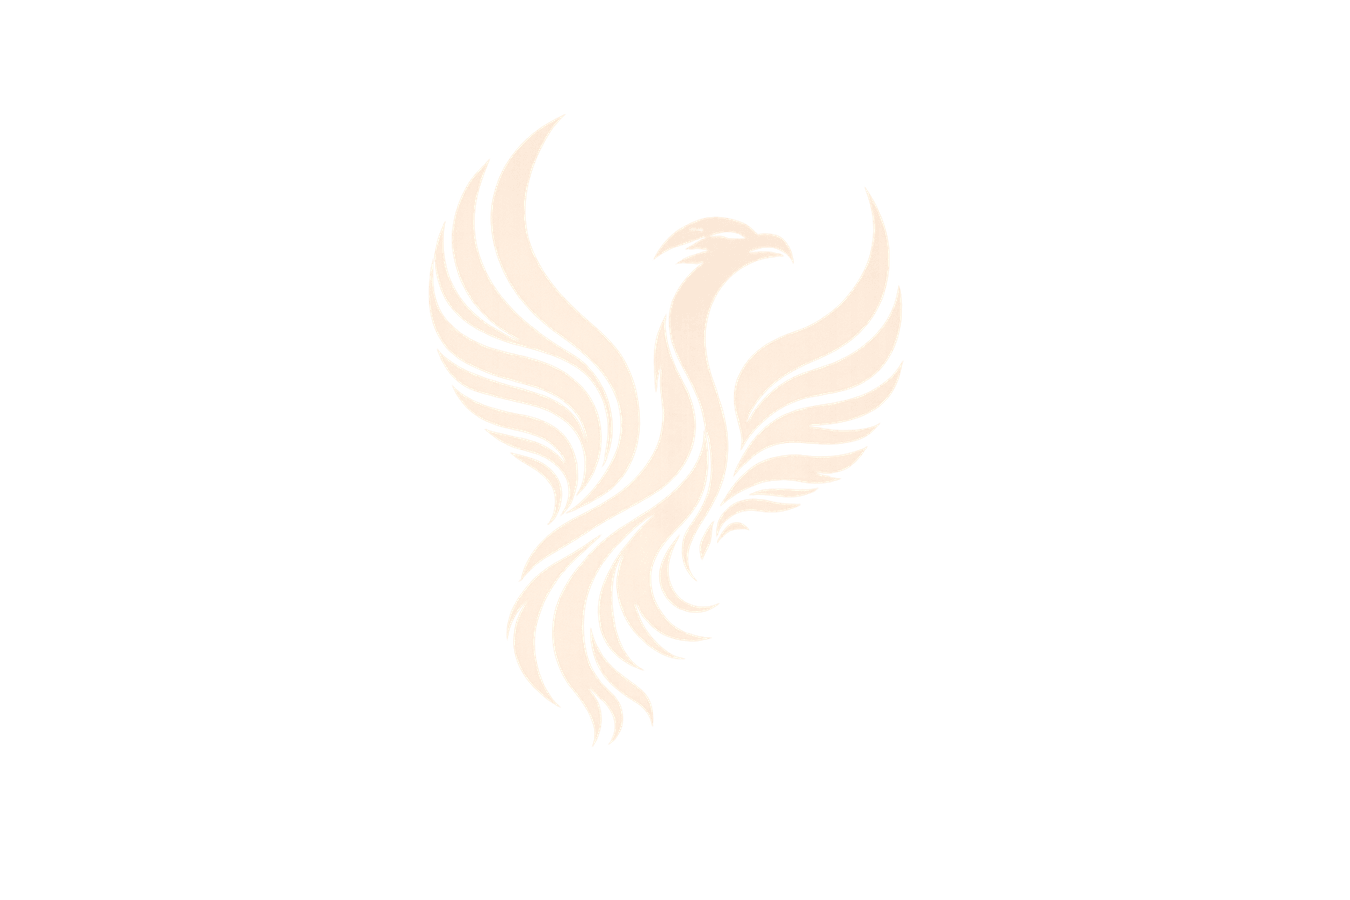
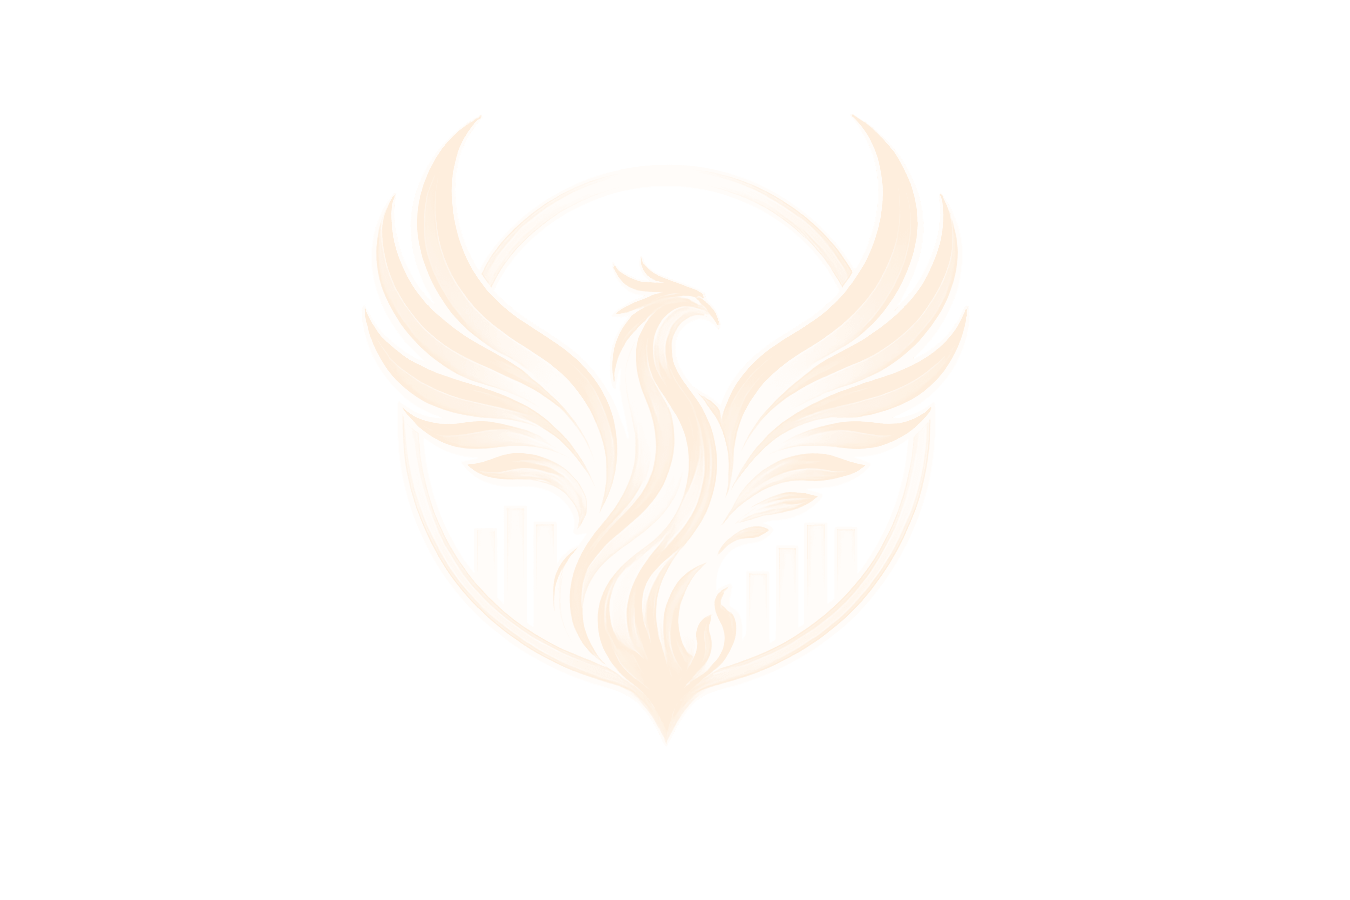
fix(brand): every Phoenix mark is the owner's ringed emblem (#3715)
* fix(brand): every Phoenix mark is the owner's ringed emblem

The owner named the ringed phoenix over rising bars as the original Phoenix logo on 2026-09-11 and asked for every Phoenix mark in the system to be audited and fixed. An audit of every tracked image, every base64 picture in code and every picture inside tracked Office files and PDFs, checked by eye, found five live surfaces on other drawings: the browser tab icon, the installed-app and iPhone home-screen icons, the desktop notification, the Excel exports' corner mark, and the public marketing guide. All now draw the ringed emblem, with the icon cache keys bumped so browsers refetch. Nine unused drawings that are not the logo are removed from public/. tests/phoenix-official-logo.test.ts compares each surface with the emblem by image hash and was proved to fail on every old drawing.

* fix(brand): identity banner watermark carries the ringed emblem

The employee portal identity banner is a design the owner locked, so this change is its own commit for his yes or no before merge. Same cream colour, canvas, position and height as the bird it replaces; the emblem's dark outlines are kept as engraved gaps so the bird still reads inside the ring. identity-card.tsx is not touched.

---------

Changed region(s): [[0.2489, 0.1244, 0.7156, 0.8089], [0.6222, 0.6222, 0.6533, 0.6844], [0.5911, 0.6844, 0.6222, 0.7156]]

diff --git a/src/lib/export/phoenix-pdf-assets.ts b/src/lib/export/phoenix-pdf-assets.ts
@@ -1,5 +1,6 @@
 // AUTO-GENERATED brand asset. Source: public/brand/phoenix-rail-mark.png (phoenix emblem on black).
 // Inlined as base64 so PDF export embeds the mark without runtime filesystem/static-asset reads
 // (reliable on Vercel serverless). Regenerate by re-encoding the source PNG if the brand mark changes.
+// Re-encoded 2026-09-11: it still held an older glow-bird drawing, not the owner's ringed emblem.
 export const PHOENIX_RAIL_MARK_PNG_BASE64 =
[2 lines of base64/hex data omitted]

diff --git a/tests/phoenix-official-logo.test.ts b/tests/phoenix-official-logo.test.ts
@@ -1,0 +1,204 @@
+import assert from "node:assert/strict";
+import { existsSync, readdirSync, readFileSync } from "node:fs";
+import path from "node:path";
+
+import sharp from "sharp";
+
+// ─────────────────────────────────────────────────────────────────────────────
+// THE OFFICIAL PHOENIX LOGO IS THE RINGED EMBLEM — the phoenix inside a ring, over rising bars.
+//
+// The owner, 2026-09-11, sending that mark: "This is the original contract logo of Phoenix. So fix
+// here and deep audit everywhere in the system and fix with the correct logo." The same night two
+// document attempts had carried other Phoenix drawings that sat in `public/brand/` beside the real
+// one — a bird with no ring, and a brand-sheet lockup reading PEOPLE • PERFORMANCE • INTELLIGENCE —
+// and the browser tab, the phone home-screen icon, the desktop notification and the Excel exports'
+// corner mark were all still wearing a glowing bird that is not the logo at all.
+//
+// WHY A PICTURE TEST, NOT A FILE-NAME TEST. Every wrong mark had a plausible name
+// (`phoenix-main-logo.png`, `phoenix-required-brand.png`), and the Excel mark was a base64 string no
+// name search can see. So each surface is compared with the official emblem by a 64-bit difference
+// hash. Measured when this was written: every correct surface sat 0–5 bits from the reference, and
+// every wrong drawing it replaced sat 17–30 bits away.
+//
+// WHAT IT PINS
+//   1. the reference emblem itself, by its own hash — so swapping the reference cannot make every
+//      other check agree with a wrong mark;
+//   2. a negative control — the Sato mark must read as DIFFERENT, or the comparator is blind and
+//      every pass below is vacuous;
+//   3. the browser and app icons, the marks the app shell draws, the email signatures, the camera
+//      watermark, the notification icon and the Excel exports' embedded mark;
+//   4. that the retired drawings are gone from `public/` and no code path points at them.
+//
+// A red here is a wrong logo reaching users. Fix the ASSET, never the hash: the reference hash moves
+// only when the owner changes the logo.
+// ─────────────────────────────────────────────────────────────────────────────
+
+const OFFICIAL_EMBLEM = "public/brand/identity-strip-emblem.png";
+
+/** Difference hash of the official emblem flattened on white and on black, measured 2026-09-11. */
+const OFFICIAL_HASH = { onBlack: "55cc69692f5b0f0e", onWhite: "b20e96c4e8d0c879" } as const;
+
+/** Slack for a resampler or libvips upgrade re-rounding the reference itself. */
+const REFERENCE_DRIFT_BITS = 4;
+
+/** At most this many bits apart is the same mark. Correct surfaces measured 0–5, wrong ones 17–30. */
+const SAME_MARK_BITS = 10;
+
+const WHITE = "#ffffff";
+const BLACK = "#000000";
+
+/** Drawings that are NOT the logo, removed 2026-09-11. None may come back, and nothing may point at one. */
+const RETIRED = [
+  "brand/phoenix-favicon-transparent.png",
+  "brand/phoenix-icon-transparent.png",
+  "brand/phoenix-logo-reference.png",
+  "brand/phoenix-main-logo.png",
+  "brand/phoenix-primary-icon.png",
+  "brand/phoenix-primary-logo.png",
+  "brand/phoenix-required-brand.png",
+  "brand/sfe-logo.png",
+  "assets/branding/phoenix-mindset-banner.png",
+] as const;
+
+async function differenceHash(input: string | Buffer, background: string): Promise<string> {
+  const flat = await sharp(input).flatten({ background }).png().toBuffer();
+  let framed = flat;
+  try {
+    // Trim the uniform border, so the padding a mark has inside its own canvas does not decide it.
+    framed = await sharp(flat).trim({ threshold: 24 }).png().toBuffer();
+  } catch {
+    framed = flat;
+  }
+  const grey = await sharp(framed).resize(9, 8, { fit: "fill" }).grayscale().raw().toBuffer();
+  let hex = "";
+  for (let y = 0; y < 8; y++) {
+    let byte = 0;
+    for (let x = 0; x < 8; x++) byte = (byte << 1) | (grey[y * 9 + x] > grey[y * 9 + x + 1] ? 1 : 0);
+    hex += byte.toString(16).padStart(2, "0");
+  }
+  return hex;
+}
+
+function hammingBits(a: string, b: string): number {
+  let bits = 0;
+  for (let i = 0; i < a.length; i += 2) {
+    let v = Number.parseInt(a.slice(i, i + 2), 16) ^ Number.parseInt(b.slice(i, i + 2), 16);
+    while (v) {
+      bits += v & 1;
+      v >>= 1;
+    }
+  }
+  return bits;
+}
+
+function icoEntries(file: string): { png: Buffer; size: number }[] {
+  const buf = readFileSync(file);
+  const entries: { png: Buffer; size: number }[] = [];
+  for (let i = 0; i < buf.readUInt16LE(4); i++) {
+    const at = 6 + i * 16;
+    const offset = buf.readUInt32LE(at + 12);
+    entries.push({ png: buf.subarray(offset, offset + buf.readUInt32LE(at + 8)), size: buf[at] || 256 });
+  }
+  return entries;
+}
+
+function textFilesUnder(dir: string): string[] {
+  if (!existsSync(dir)) return [];
+  const files: string[] = [];
+  for (const entry of readdirSync(dir, { withFileTypes: true })) {
+    const full = path.join(dir, entry.name);
+    if (entry.isDirectory()) {
+      if (entry.name === "node_modules" || entry.name.startsWith(".")) continue;
+      files.push(...textFilesUnder(full));
+    } else if (/\.(ts|tsx|js|mjs|cjs|jsx|json|html|css|sql|toml)$/.test(entry.name)) {
+      files.push(full);
+    }
+  }
+  return files;
+}
+
+export async function runPhoenixOfficialLogoTests() {
+  const referenceOnWhite = await differenceHash(OFFICIAL_EMBLEM, WHITE);
+  const referenceOnBlack = await differenceHash(OFFICIAL_EMBLEM, BLACK);
+  assert.ok(
+    hammingBits(referenceOnWhite, OFFICIAL_HASH.onWhite) <= REFERENCE_DRIFT_BITS
+      && hammingBits(referenceOnBlack, OFFICIAL_HASH.onBlack) <= REFERENCE_DRIFT_BITS,
+    `${OFFICIAL_EMBLEM} is no longer the emblem the owner named — every check below compares against it, so a swapped reference would pass a wrong logo everywhere`,
+  );
+
+  const satoBits = hammingBits(await differenceHash("public/brand/sato-pharma-logo-on-light.png", WHITE), referenceOnWhite);
+  assert.ok(
+    satoBits > SAME_MARK_BITS + 4,
+    `the comparator reads the Sato mark as the Phoenix emblem (${satoBits} bits apart) — it can no longer tell two marks apart, so every pass below would be vacuous`,
+  );
+
+  const sameMark = async (label: string, input: string | Buffer, background: string) => {
+    const reference = background === BLACK ? referenceOnBlack : referenceOnWhite;
+    const bits = hammingBits(await differenceHash(input, background), reference);
+    assert.ok(
+      bits <= SAME_MARK_BITS,
+      `${label} is not the ringed Phoenix emblem (${bits} bits from it, where the same mark is at most ${SAME_MARK_BITS}) — the owner's original logo is the phoenix inside a ring over rising bars`,
+    );
+  };
+
+  // The browser tab, the installed app and the iPhone home screen.
+  await sameMark("app/icon.png, the browser-tab and installed-app icon", "app/icon.png", WHITE);
+  await sameMark("app/apple-icon.png, the iPhone home-screen icon", "app/apple-icon.png", WHITE);
+  const favicon = icoEntries("app/favicon.ico");
+  assert.deepEqual(
+    favicon.map((entry) => entry.size).sort((a, b) => a - b),
+    [16, 32, 48, 64],
+    "favicon.ico carries exactly the 16/32/48/64 sizes app/layout.tsx declares for it",
+  );
+  for (const entry of favicon) {
+    // Sixteen pixels cannot hold the ring and the bars apart, so below 32 the hash measures noise
+    // (the correct 16 px entry reads 14 bits). That entry is held to its size above, not its picture.
+    if (entry.size >= 32) await sameMark(`app/favicon.ico at ${entry.size}px`, entry.png, WHITE);
+  }
+
+  // The marks the app shell draws — read from the brand config, so a repointed key is checked too.
+  const settings = readFileSync("src/config/system-settings.ts", "utf8");
+  const configured = new Map(
+    [...settings.matchAll(/\b(iconLogo|loginEmblem|adminRailMark|adminSidebarLockup):\s*"([^"]+)"/g)].map((m) => [m[1] ?? "", m[2] ?? ""] as const),
+  );
+  for (const key of ["iconLogo", "loginEmblem", "adminRailMark", "adminSidebarLockup"]) {
+    const src = configured.get(key);
+    assert.ok(src, `system-settings.ts no longer names ${key}, so this test can no longer see the mark the app shell draws`);
+    assert.ok(existsSync(`public${src}`), `${key} points at ${src}, which is not in public/ — the app shell would draw a broken image`);
+  }
+  await sameMark("the brand config's iconLogo", `public${configured.get("iconLogo")}`, WHITE);
+  await sameMark("the brand config's loginEmblem", `public${configured.get("loginEmblem")}`, WHITE);
+  await sameMark("the brand config's adminRailMark", `public${configured.get("adminRailMark")}`, BLACK);
+  // The lockup sets the wordmark beside the emblem, so the emblem is the lockup's left square.
+  const lockup = `public${configured.get("adminSidebarLockup")}`;
+  const lockupHeight = (await sharp(lockup).metadata()).height ?? 0;
+  const lockupEmblem = await sharp(lockup).extract({ height: lockupHeight, left: 0, top: 0, width: lockupHeight }).png().toBuffer();
+  await sameMark("the emblem in the brand config's adminSidebarLockup", lockupEmblem, BLACK);
+
+  // Everywhere the mark leaves the app.
+  await sameMark("the desktop notification icon", "public/brand/phoenix-notification-icon.png", WHITE);
+  assert.match(
+    readFileSync("src/lib/nav-badge-store.ts", "utf8"),
+    /icon:\s*"\/brand\/phoenix-notification-icon\.png"/,
+    "the Action Center desktop notification draws the notification icon — the favicon is 64px at most and blurs at notification size",
+  );
+  await sameMark("the HR email signature", "public/assets/branding/phoenix-hr-email-signature.png", WHITE);
+  await sameMark("the small HR email signature", "public/assets/branding/phoenix-hr-signature-small.png", WHITE);
+  await sameMark("the camera evidence watermark", "public/brand/phoenix-camera-watermark.png", WHITE);
+
+  const assets = readFileSync("src/lib/export/phoenix-pdf-assets.ts", "utf8");
+  const quote = assets.indexOf('"');
+  const exportMark = Buffer.from(assets.slice(quote + 1, assets.indexOf('"', quote + 1)), "base64");
+  await sameMark("the Excel exports' corner mark (PHOENIX_RAIL_MARK_PNG_BASE64)", exportMark, BLACK);
+
+  // The retired drawings stay retired.
+  for (const retired of RETIRED) {
+    assert.ok(!existsSync(`public/${retired}`), `public/${retired} is back — it is not the Phoenix logo, and it was removed so no session reaches for it again`);
+  }
+  const pointers: string[] = [];
+  for (const file of ["src", "app", "public", "lib", "scripts", "supabase"].flatMap(textFilesUnder)) {
+    const text = readFileSync(file, "utf8");
+    for (const retired of RETIRED) if (text.includes(retired)) pointers.push(`${file} -> ${retired}`);
+  }
+  assert.deepEqual(pointers, [], "a code path points at a retired Phoenix drawing, which would render a broken image or a wrong logo");
+}

diff --git a/tests/run-tests.ts b/tests/run-tests.ts
@@ -1581,6 +1581,7 @@ import { runLeaveRequestCodesTests } from "./leave-request-codes.test.ts";
 
 import { runManagerAreaRegionGuardTests } from "./manager-area-region-guard.test.ts";
 import { runDataBackupWorkbookTests } from "./data-backup-workbook.test.ts";
+import { runPhoenixOfficialLogoTests } from "./phoenix-official-logo.test.ts";
 
 const testDurationsMs: { name: string; durationMs: number }[] = [];
 
@@ -5232,6 +5233,11 @@ await runTest(
 await runTest(
   "the custody receipt prices each item and totals only the rows handed over, where a blank is never a zero and a settled record cannot be re-priced",
   runCustodyItemValuesTests,
+);
+
+await runTest(
+  "every Phoenix mark the system draws — browser and app icons, app shell, notification, email signature, Excel exports — is the owner's ringed emblem, and the retired drawings stay gone",
+  runPhoenixOfficialLogoTests,
 );
 
 const totalMs = testDurationsMs.reduce((sum, t) => sum + t.durationMs, 0);

diff --git a/app/layout.tsx b/app/layout.tsx
@@ -63,10 +63,10 @@ export const metadata: Metadata = {
   title: systemIdentity.appName,
   description: systemIdentity.description,
   icons: {
-    apple: [{ type: "image/png", sizes: "180x180", url: "/apple-icon.png?v=phoenix-transparent-3" }],
+    apple: [{ type: "image/png", sizes: "180x180", url: "/apple-icon.png?v=phoenix-ringed-1" }],
     icon: [
-      { sizes: "16x16 32x32 48x48 64x64", url: "/favicon.ico?v=phoenix-transparent-3" },
-      { type: "image/png", sizes: "512x512", url: "/icon.png?v=phoenix-transparent-3" },
+      { sizes: "16x16 32x32 48x48 64x64", url: "/favicon.ico?v=phoenix-ringed-1" },
+      { type: "image/png", sizes: "512x512", url: "/icon.png?v=phoenix-ringed-1" },
     ],
   },
   // manifest.json + appleWebApp: iOS Safari only supports Web Push (16.4+) for a site

diff --git a/src/lib/nav-badge-store.ts b/src/lib/nav-badge-store.ts
@@ -108,7 +108,7 @@ function applyCount(src: string, newCount: number, overdue: boolean): void {
     } else if (Notification.permission === "granted") {
       new Notification("Action Center", {
         body: "New items are awaiting your approval.",
-        icon: "/favicon.ico",
+        icon: "/brand/phoenix-notification-icon.png",
       });
     }
   }

diff --git a/public/marketing-guide.html b/public/marketing-guide.html
@@ -165,7 +165,7 @@
 <div class="cover">
   <div class="ci">
     <div class="c-brand">
-      <img src="/brand/phoenix-primary-icon.png" alt="Phoenix"/>
+      <img src="/brand/phoenix-bird-icon.png" alt="Phoenix"/>
       <div class="c-brand-label">Phoenix Workforce · Employee Portal</div>
     </div>
     <div class="c-pill">User Guide</div>
